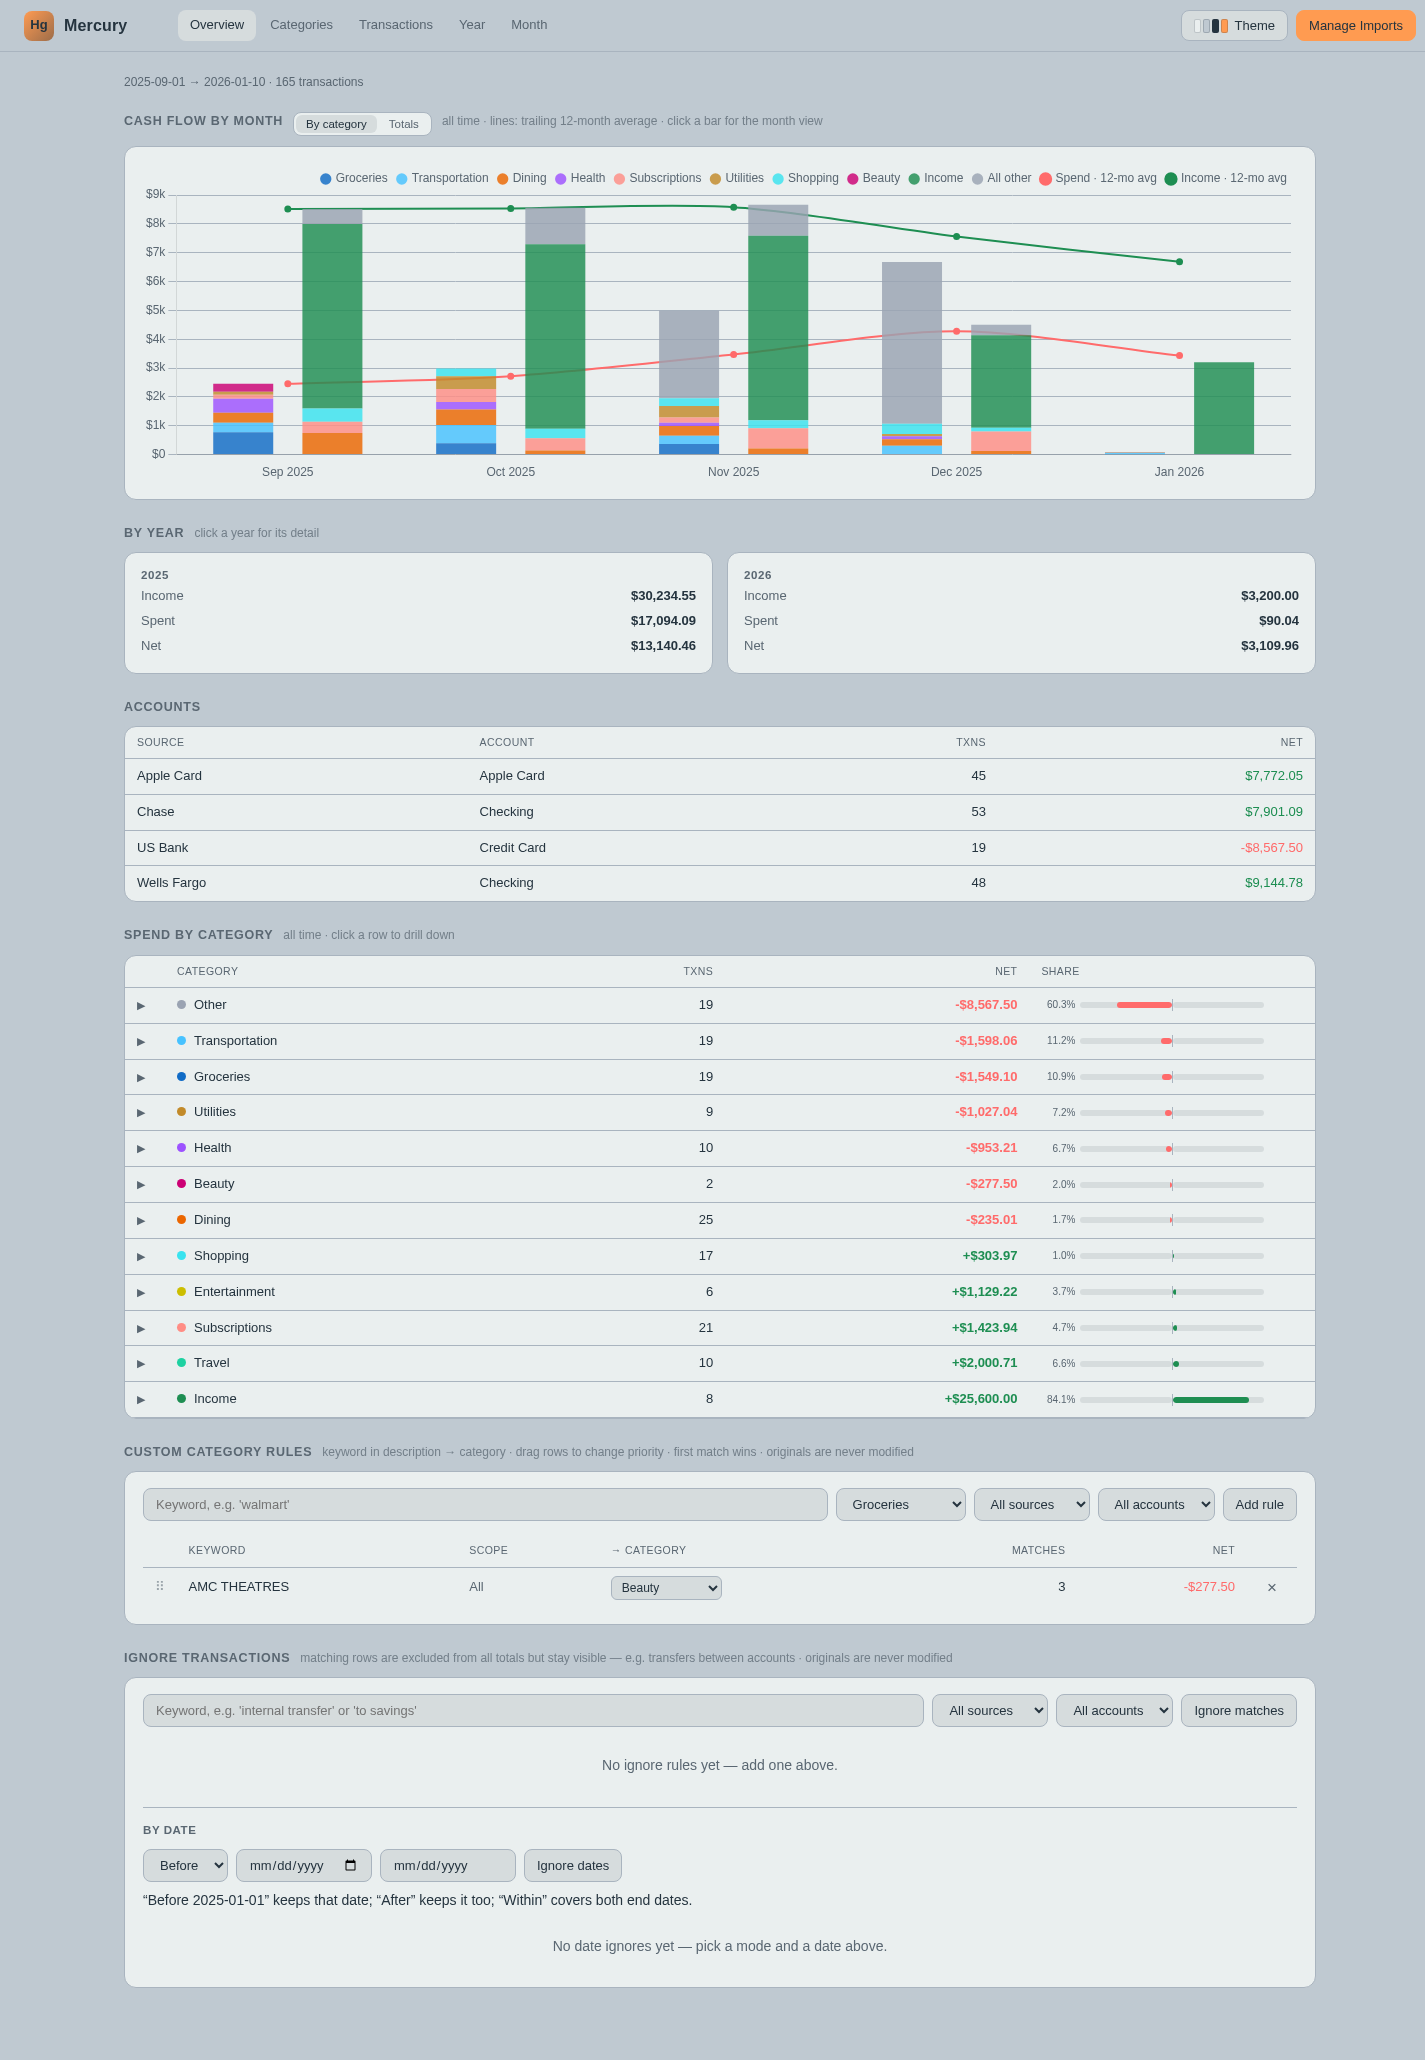
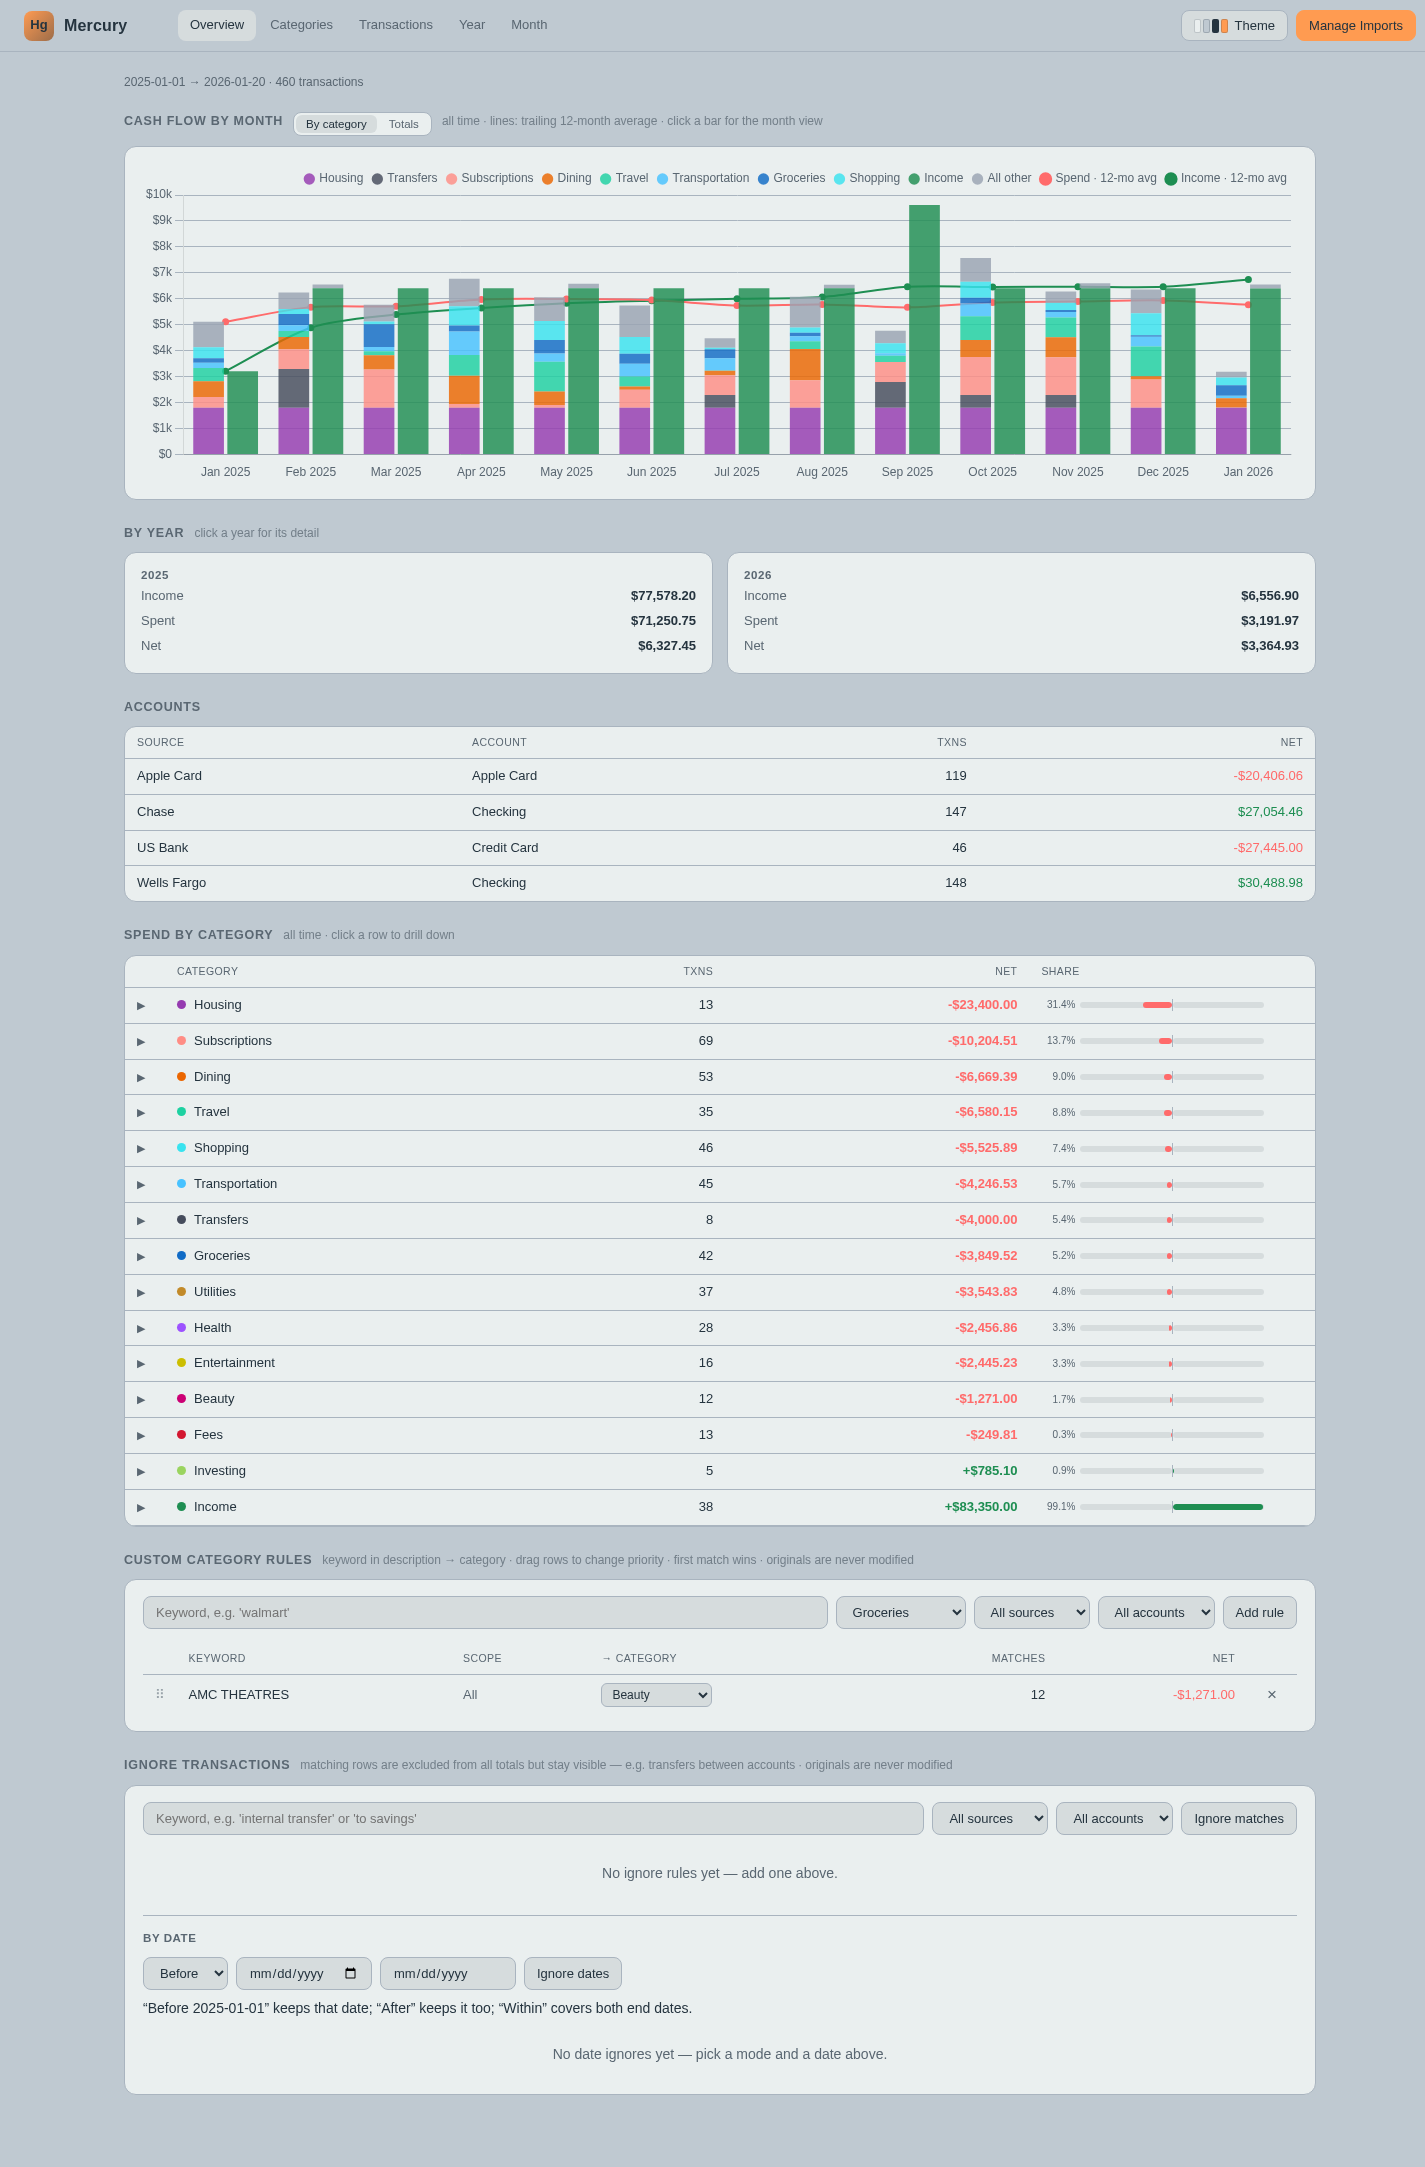
Seed data: full 2025 + 2026 YTD, only Income/Investing net positive; new README screenshot (#82)
- generate_samples.py: 2025-01-01..2026-01-15 span (was ~3 months), 461 rows
  across WF/Chase/USB/Apple; all purchase rows are debits so every spend
  category nets negative; only Income (payroll+interest) and Investing
  (dividends) are net positive.
- USB rows now carry Name/Memo columns (parser builds descriptions from
  them) so the LLM classifies rent/interest/fees/transfers from text.
- README screenshot re-captured live (CDP, port 8720) after rebuilding the
  demo DB from the new samples: 13-month cash-flow chart, green Income
  (+$83,350) and Investing (+$785.10) rows only, both year cards rendered.

diff --git a/generate_samples.py b/generate_samples.py
@@ -1,14 +1,22 @@
 #!/usr/bin/env python3
 """Generate realistic sample CSV extracts for all four institutions.
 
-Creates overlapping date ranges so the deduplication logic is exercised:
-  - Wells Fargo checking: 2025-09 .. 2025-11
-  - Chase checking:        2025-10 .. 2025-12   (overlaps WF Oct/Nov)
-  - US Bank savings:       2025-11 .. 2025-12
-  - Apple Card:            2025-09 .. 2025-12
+Coverage: full year 2025 (Jan 1 - Dec 31) plus 2026 YTD (Jan 1 - ~Jan 15).
+Nothing prior to 2025 is generated.
 
-Wells Fargo and Chase both have overlapping Oct/Nov with a few identical
-transactions (same account activity mirrored) to demonstrate dedup.
+Files written (overlapping date ranges so the deduplication logic is
+exercised):
+  - Wells Fargo checking: 2025-01 .. 2026-01  (payroll + brokerage dividends)
+  - Chase checking:       2025-01 .. 2026-01  (mirrors some WF rows for dedup)
+  - US Bank:              2025-01 .. 2026-01  (rent, interest, fees, transfers)
+  - Apple Card:           2025-01 .. 2026-01
+
+Sign convention: only Income and Investing rows are credits (positive);
+every merchant/purchase row is a debit (negative), so in the app only
+Income and Investing categories come out net positive.
+
+Re-running this script deletes the previously generated sample CSVs in
+app/data/extracts first (self-cleaning: old-range files are not left behind).
 """
 from __future__ import annotations
 import csv
@@ -20,10 +28,18 @@ random.seed(42)
 OUT = Path(__file__).resolve().parent / "app" / "data" / "extracts"
 OUT.mkdir(parents=True, exist_ok=True)
 
-WF = OUT / "wells_fargo_2025-09_to_2025-11.csv"
-CHASE = OUT / "chase_2025-10_to_2025-12.csv"
-USBANK = OUT / "us_bank_2025-11_to_2025-12.csv"
-APPLE = OUT / "apple_card_2025-09_to_2025-12.csv"
+# Self-clean: drop sample CSVs from earlier runs (any date range).
+for old in OUT.glob("*.csv"):
+    if old.name.startswith(("wells_fargo_", "chase_", "us_bank_", "apple_card_")):
+        old.unlink()
+
+START = date(2025, 1, 1)
+END = date(2026, 1, 15)
+
+WF = OUT / "wells_fargo_2025-01_to_2026-01.csv"
+CHASE = OUT / "chase_2025-01_to_2026-01.csv"
+USBANK = OUT / "us_bank_2025-01_to_2026-01.csv"
+APPLE = OUT / "apple_card_2025-01_to_2026-01.csv"
 
 
 def rng(d0: date, d1: date, n: int) -> list[date]:
@@ -35,9 +51,22 @@ def money(x: float) -> str:
     return f"(${x:,.2f})" if x < 0 else f"${x:,.2f}"
 
 
+def monthly(day: int, first: date, last: date) -> list[date]:
+    """Every occurrence of `day` in the month grid from first to last."""
+    out, d = [], date(first.year, first.month, day)
+    if d < first:
+        d = d.replace(year=d.year + 1) if d.month == 12 else d.replace(month=d.month + 1)
+    while d <= last:
+        out.append(d)
+        nxt_month = d.month % 12 + 1
+        nxt_year = d.year + (1 if d.month == 12 else 0)
+        d = date(nxt_year, nxt_month, day)
+    return out
+
+
 # --- Wells Fargo -----------------------------------------------------------
 wf_rows = []
-wf_dates = rng(date(2025, 9, 1), date(2025, 11, 30), 40)
+wf_dates = rng(START, END, 130)
 wf_merchants = [
     ("TRADER JOES #4471", "Groceries", -1),
     ("STARBUCKS 000123", "Dining", -1),
@@ -54,10 +83,16 @@ for d in wf_dates:
     m = random.choice(wf_merchants)
     amt = round(random.uniform(4, 180), 2) * m[2]
     wf_rows.append([d.strftime("%Y-%m-%d"), m[0], "Debit", money(amt), m[1], ""])
-# Add a couple of income rows (payroll)
-for d in [date(2025, 9, 15), date(2025, 10, 15), date(2025, 11, 15)]:
+# Payroll, 15th of every month (2025-01 .. 2026-01): Income
+for d in monthly(15, START, END):
     wf_rows.append([d.strftime("%Y-%m-%d"), "ACME CORP PAYROLL", "Deposit",
                     money(3200), "Income", ""])
+# Quarterly-ish brokerage dividends: the only Investing credits
+for d, amt in [(date(2025, 2, 21), 142.60), (date(2025, 5, 22), 168.35),
+               (date(2025, 8, 21), 129.80), (date(2025, 11, 20), 187.45),
+               (date(2026, 1, 20), 156.90)]:
+    wf_rows.append([d.strftime("%Y-%m-%d"), "FIDELITY DIVIDEND", "Deposit",
+                    money(amt), "Investing", ""])
 wf_rows.sort(key=lambda r: r[0])
 with open(WF, "w", newline="") as f:
     w = csv.writer(f)
@@ -71,7 +106,7 @@ chase_rows = []
 overlap = random.sample(wf_rows, 15)  # these will dedup against WF
 for r in overlap:
     chase_rows.append([r[0], r[1], r[4], r[3]])  # Date, Desc, Category, Amount
-ch_dates = rng(date(2025, 10, 1), date(2025, 12, 31), 35)
+ch_dates = rng(START, END, 120)
 ch_merchants = [
     ("DOORDASH #99120", "Dining"),
     ("GAP STORE", "Shopping"),
@@ -86,7 +121,8 @@ for d in ch_dates:
     m = random.choice(ch_merchants)
     amt = round(random.uniform(5, 220), 2)
     chase_rows.append([d.strftime("%Y-%m-%d"), m[0], m[1], money(-amt)])
-for d in [date(2025, 10, 15), date(2025, 11, 15), date(2025, 12, 15)]:
+# Payroll staggered one month behind WF (2025-02 .. 2026-01): Income
+for d in monthly(15, date(2025, 2, 1), END):
     chase_rows.append([d.strftime("%Y-%m-%d"), "ACME CORP PAYROLL", "Income",
                        money(3200)])
 chase_rows.sort(key=lambda r: r[0])
@@ -96,34 +132,30 @@ with open(CHASE, "w", newline="") as f:
     w.writerows(chase_rows)
 
 # --- US Bank ---------------------------------------------------------------
+# The parser builds descriptions from the Name + Memo columns (real US Bank
+# credit-card export layout), so the data lives there — the row then comes in
+# uncategorized and the LLM/rule/manual classification does the work.
 usb_rows = []
-usb_dates = rng(date(2025, 11, 1), date(2025, 12, 31), 20)
-usb_merchants = [
-    ("INTERNAL TRANSFER FROM CHECKING", "Transfers"),
-    ("SAVINGS INTEREST", "Income"),
-    ("MONTHLY SERVICE FEE", "Fees"),
-    ("AUTO PAY - RENT", "Housing"),
-]
-for d in usb_dates:
-    m = random.choice(usb_merchants)
-    if m[1] == "Income":
-        amt = 12.5
-    elif m[1] == "Fees":
-        amt = -15
-    elif m[1] == "Housing":
-        amt = -1800
-    else:
-        amt = -500
-    usb_rows.append([d.strftime("%Y-%m-%d"), m[0], m[1], money(amt)])
+def usb(desc: str, amt: float, d: date, typ: str, memo: str = "") -> None:
+    usb_rows.append([d.strftime("%Y-%m-%d"), typ, desc, memo, money(amt)])
+# Monthly rhythm: rent on the 1st, service fee on the 3rd, interest on the 28th
+for d in monthly(1, START, END):
+    usb("RENT", -1800, d, "Auto Pay")
+for d in monthly(3, START, END):
+    usb("MONTHLY SERVICE FEE", -15, d, "Service Fee")
+for d in monthly(28, START, END):
+    usb("SAVINGS INTEREST", 12.5, d, "Interest")
+for d in rng(START, END, 8):
+    usb("INTERNAL TRANSFER", -500, d, "Transfer", "FROM CHECKING")
 usb_rows.sort(key=lambda r: r[0])
 with open(USBANK, "w", newline="") as f:
     w = csv.writer(f)
-    w.writerow(["Date", "Description", "Type", "Amount", "Category"])
+    w.writerow(["Date", "Transaction", "Name", "Memo", "Amount"])
     w.writerows(usb_rows)
 
 # --- Apple Card ------------------------------------------------------------
 ap_rows = []
-ap_dates = rng(date(2025, 9, 1), date(2025, 12, 31), 45)
+ap_dates = rng(START, END, 120)
 ap_merchants = [
     ("APPLE.COM/BILL", "Subscriptions"),
     ("ICLOUD STORAGE", "Subscriptions"),
@@ -137,7 +169,10 @@ ap_merchants = [
 for d in ap_dates:
     m = random.choice(ap_merchants)
     amt = round(random.uniform(3, 300), 2)
-    ap_rows.append([d.strftime("%Y-%m-%d"), m[0], money(-amt), "USD", m[1]])
+    # Apple Card reports purchases as POSITIVE amounts (real export
+    # convention); the parser flips them to expenses. Writing them negated
+    # here would double-flip and store the purchases as credits.
+    ap_rows.append([d.strftime("%Y-%m-%d"), m[0], money(amt), "USD", m[1]])
 ap_rows.sort(key=lambda r: r[0])
 with open(APPLE, "w", newline="") as f:
     w = csv.writer(f)
